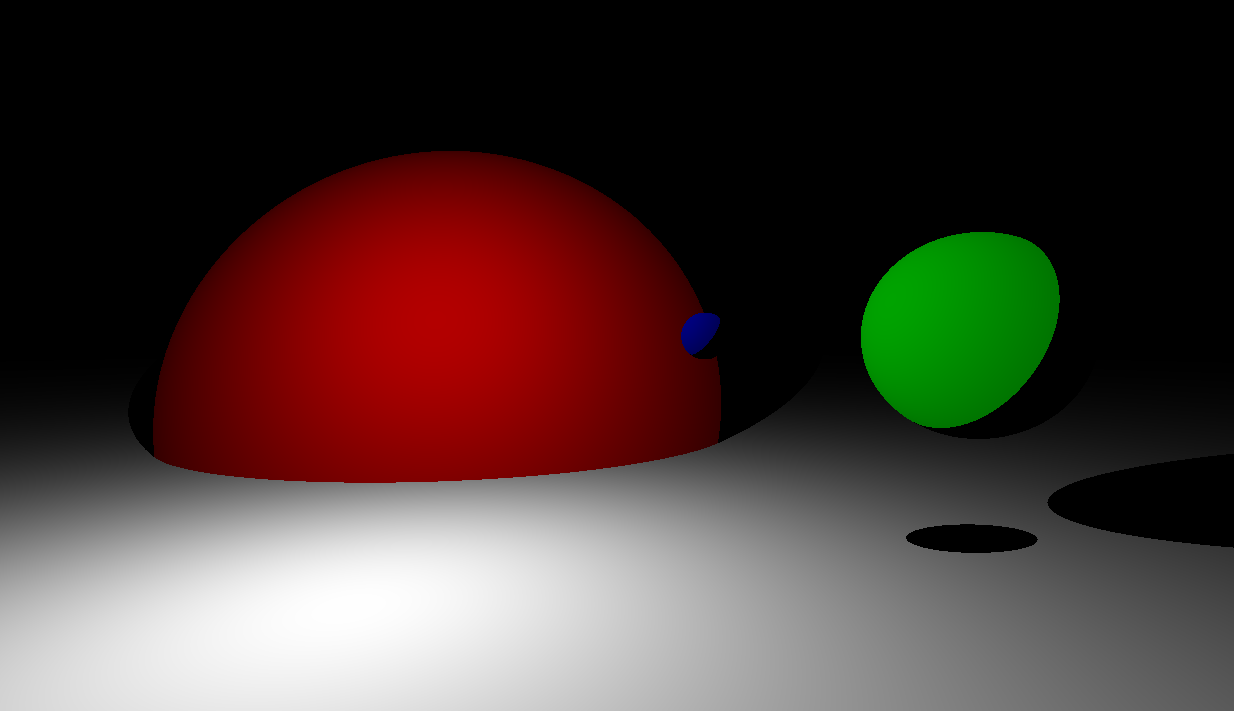
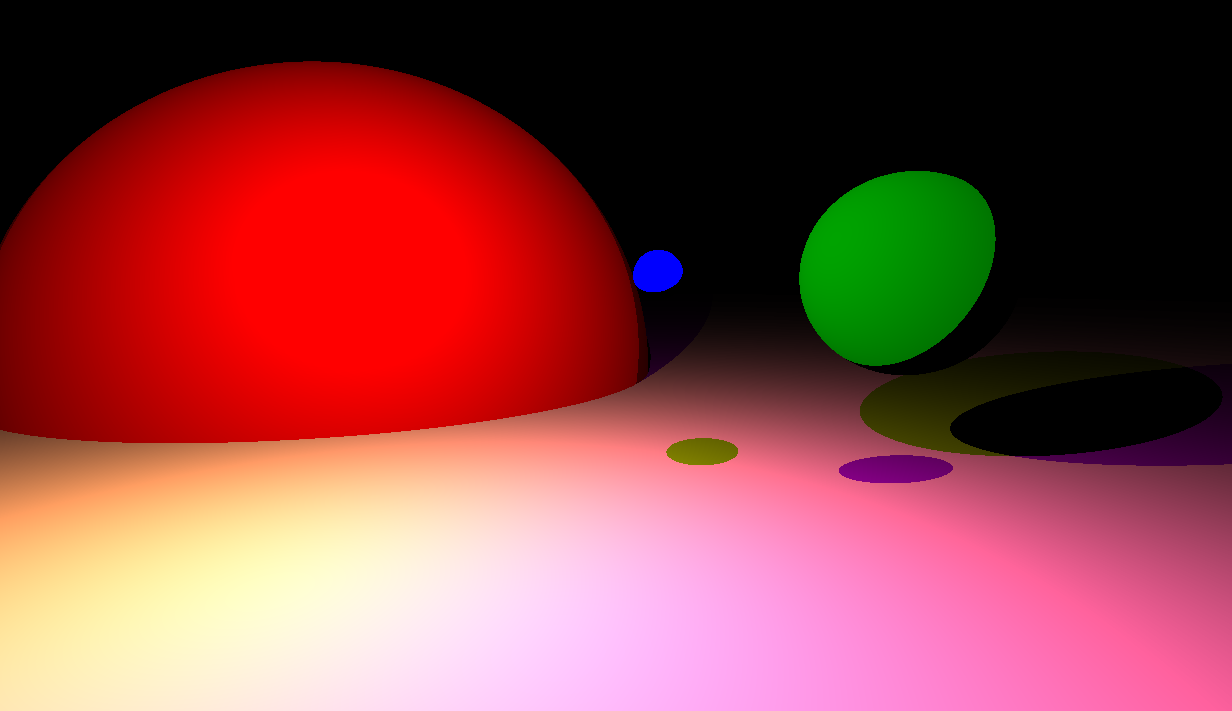
make

diff --git a/mk1/raymarching.c b/mk1/raymarching.c
@@ -90,7 +90,7 @@ double	obj_dist(t_data *param)
 	dist = (aux < dist) ? aux : dist;
 }
 
-int		bounce_ray(t_data *param)
+int		bounce_ray(t_data *param, int i)
 {
 	double	dist;
 	double	tray;
@@ -98,7 +98,10 @@ int		bounce_ray(t_data *param)
 
 	j = -1;
 	while (++j < 3)
-		param->cam.ray.V[j] = param->l[0]->O[j] - param->cam.ray.O[j];
+	{
+		param->cam.ray.O[j] = param->cam.ray.O_prev[j];
+		param->cam.ray.V[j] = param->l[i]->O[j] - param->cam.ray.O[j];
+	}
 	param->cam.ray.mod = mod(param->cam.ray.V);
 	j = -1;
 	while (++j < 3)
@@ -115,13 +118,11 @@ int		bounce_ray(t_data *param)
 		{
 			j = -1;
 			while (++j < 3)
-				param->cam.ray.ray_rgb[j] /= pow(param->cam.ray.mod / 2000, 2);
-			rgb_to_hex(param->cam.ray.ray_rgb, &param->cam.ray.ray_c);
+				param->cam.ray.ray_rgb_l[j] += param->l[i]->rgb[j] / pow(param->cam.ray.mod / 2000, 2);
 			return (1);
 		}
 		dist = obj_dist(param);
 	}
-	param->cam.ray.ray_c = 0;
 	return (0);
 }
 
@@ -133,6 +134,9 @@ int		is_hit(t_data *param)
 
 	dist = 2;
 	tray = 0;
+	j = -1;
+	while (++j < 3)
+		param->cam.ray.ray_rgb_l[j] = 0;
 	while (dist > 0.001)
 	{
 		tray += dist;
@@ -143,7 +147,9 @@ int		is_hit(t_data *param)
 			param->cam.ray.O[j] += param->cam.ray.V[j] * dist;
 		dist = obj_dist(param);
 	}
-	param->cam.ray.ray_c = param->cam.ray.obj_c;
-	hex_to_rgb(param->cam.ray.obj_c, param->cam.ray.ray_rgb);
+	hex_to_rgb(param->cam.ray.obj_c, param->cam.ray.ray_rgb_o);
+	j = -1;
+	while (++j < 3)
+		param->cam.ray.O_prev[j] = param->cam.ray.O[j];
 	return (1);
 }

diff --git a/mk1/init.c b/mk1/init.c
@@ -45,7 +45,6 @@ void		vectors_init(t_data *param)
 	param->cam.Vn[0] = 1;
 	param->cam.Vn[1] = 0;
 	param->cam.Vn[2] = 0;
-	param->cam.ray.ray_rgb = (int *)malloc(sizeof(int) * 3);
 	module = mod(param->cam.Vn);
 	i = -1;
 	while (++i < 3)
@@ -79,7 +78,8 @@ void	ft_init(t_data *param)
 {
 	double p[3];
 	double p1[3];
-	double p2[3];
+	double l0[3];
+	double l1[3];
 	double p3[3];
 	double v[3];
 
@@ -95,9 +95,13 @@ void	ft_init(t_data *param)
 	p1[1] = 500;
 	p1[2] = 0;
 
-	p2[0] = -500;
-	p2[1] = -500;
-	p2[2] = 1000;
+	l0[0] = -500;
+	l0[1] = -500;
+	l0[2] = 1000;
+
+	l1[0] = -500;
+	l1[1] = 500;
+	l1[2] = 1000;
 
 	p3[0] = 3500;
 	p3[1] = -3500;
@@ -111,5 +115,6 @@ void	ft_init(t_data *param)
 	param->sp = add_sp(param->sp, p, 500, 0x00FF00);
 	param->sp = add_sp(param->sp, p3, 3000, 0xFF0000);
 	param->pl = add_pl(param->pl, p3, v, 0xFFFFFF);
-	param->l = add_l(param->l, p2, 0xFFFFFF);
+	param->l = add_l(param->l, l1, 0xFF00FF);
+	param->l = add_l(param->l, l0, 0xFFFF00);
 }

diff --git a/mk1/raymarching.h b/mk1/raymarching.h
@@ -67,11 +67,14 @@ typedef struct	s_screen{
 typedef struct	s_ray{
 	double	V[3];
 	double	O[3];
+	double	O_prev[3];
 	double	mod;
 	int		obj_c;
 	int		obj_n;
+	int		ray_c_prev;
 	int		ray_c;
-	int		*ray_rgb;
+	int		ray_rgb_l[3];
+	int		ray_rgb_o[3];
 	double	intens;
 }				t_ray;
 
@@ -109,6 +112,7 @@ typedef struct	s_plane{
 typedef struct	s_light{
 	double	O[3];
 	int		col;
+	int		rgb[3];
 }				t_light;
 
 typedef struct	s_data{
@@ -175,7 +179,7 @@ t_light		**add_l(t_light **l, double *O, int c);
 
 void	gen_ray(t_data *param, int x, int y, int boolean);
 int		is_hit(t_data *param);
-int		bounce_ray(t_data *param);
+int		bounce_ray(t_data *param, int i);
 
 /*
 **	test_func.c

diff --git a/mk1/test_func.c b/mk1/test_func.c
@@ -166,6 +166,7 @@ void	show_sp(t_data *param)
 {
 	int x;
 	int y;
+	int i;
 	int step;
 	double dist;
 	int color;
@@ -182,7 +183,13 @@ void	show_sp(t_data *param)
 				gen_ray(param, x, y, 1);
 				if (is_hit(param))
 				{
-					bounce_ray(param);
+					i = -1;
+					while (param->l[++i])
+						bounce_ray(param, i);
+					i = -1;
+					while (++i < 3)
+						param->cam.ray.ray_rgb_o[i] *= (double)param->cam.ray.ray_rgb_l[i] / 255;
+					rgb_to_hex(param->cam.ray.ray_rgb_o, &param->cam.ray.ray_c);
 					my_mlx_pixel_put(param, x, y, param->cam.ray.ray_c);
 				}
 			else

diff --git a/mk1/add_obj.c b/mk1/add_obj.c
@@ -73,13 +73,17 @@ t_light		**add_l(t_light **l, double *O, int c)
 		if (i < len)
 		{
 			while (++j < 3)
+			{
 				aux[i]->O[j] = l[i]->O[j];
+				aux[i]->rgb[j] = l[i]->rgb[j];
+			}
 			aux[i]->col = l[i]->col;
 		}
 		else
 		{
 			while (++j < 3)
 				aux[i]->O[j] = O[j];
+			hex_to_rgb(c, (int *)aux[i]->rgb);
 			aux[i]->col = c;
 		}
 	}

diff --git a/mk1/misc.c b/mk1/misc.c
@@ -43,6 +43,11 @@ double	mod(double *v)
 
 void	rgb_to_hex(int *rgb, int *hex)
 {
+	int i;
+
+	i = -1;
+	while (++i < 3)
+		rgb[i] = (rgb[i] > 255) ? 255 : rgb[i];
 	*hex = rgb[0] * 65536 + rgb[1] * 256 + rgb[2];
 }
 
